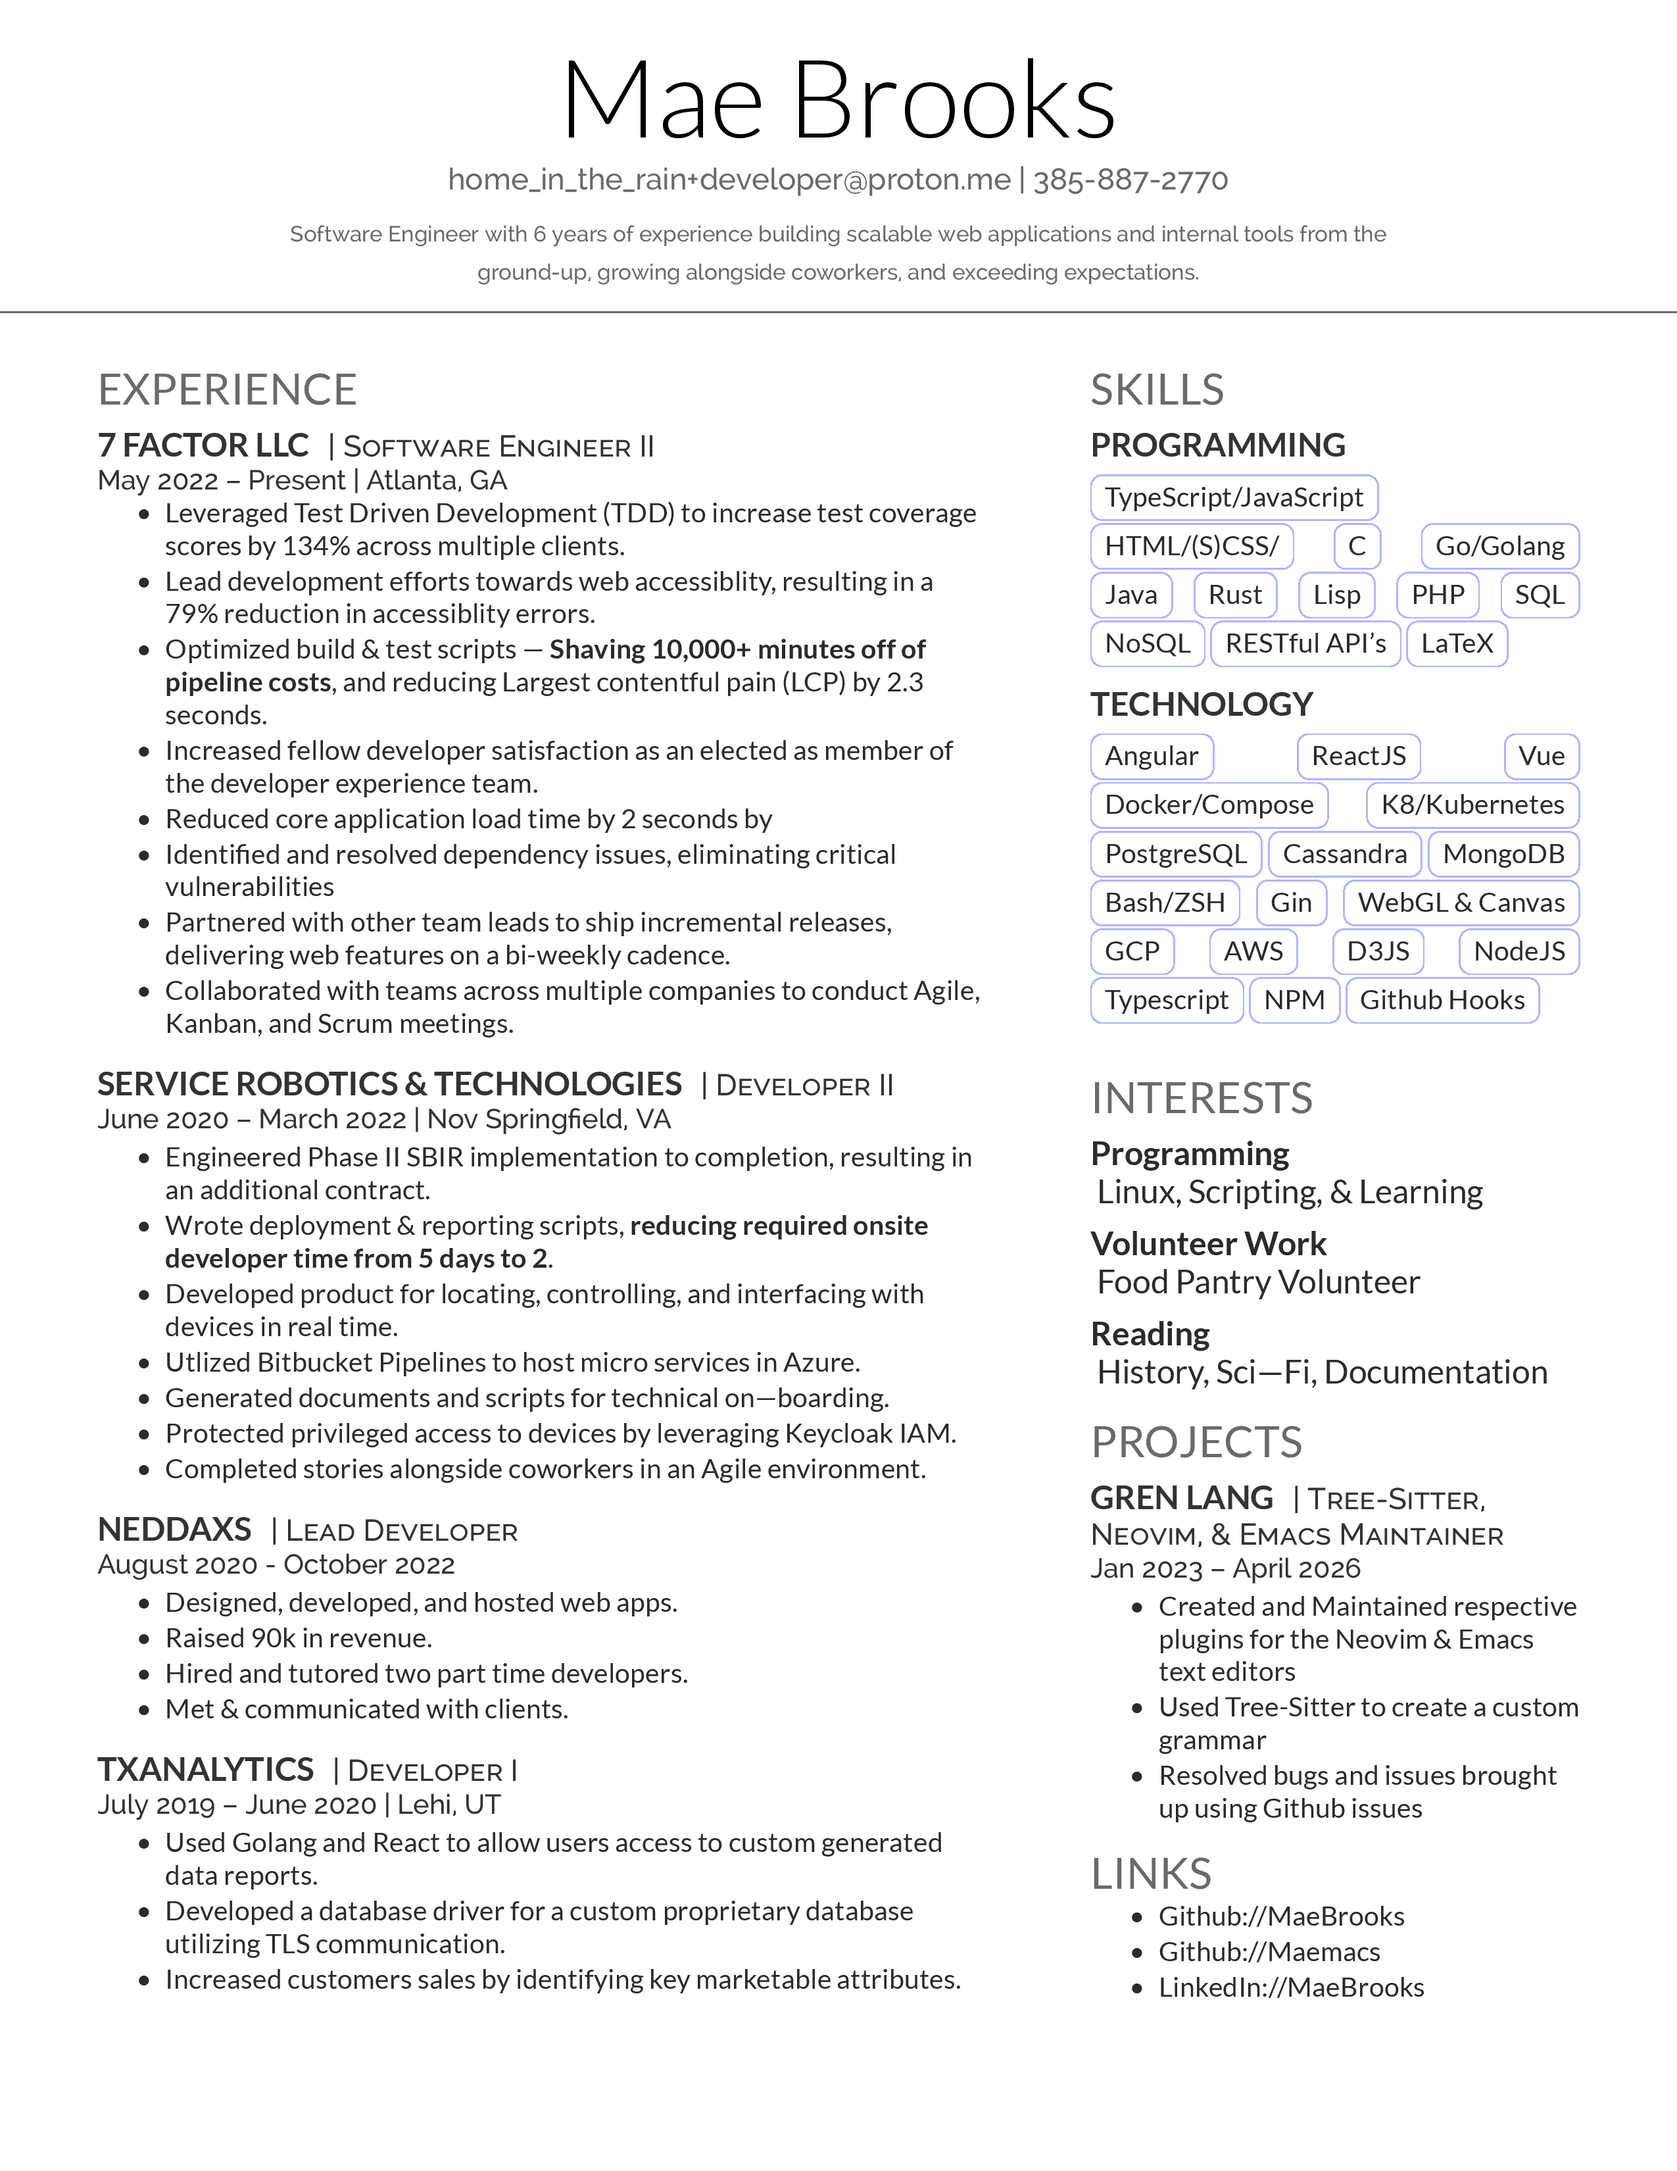
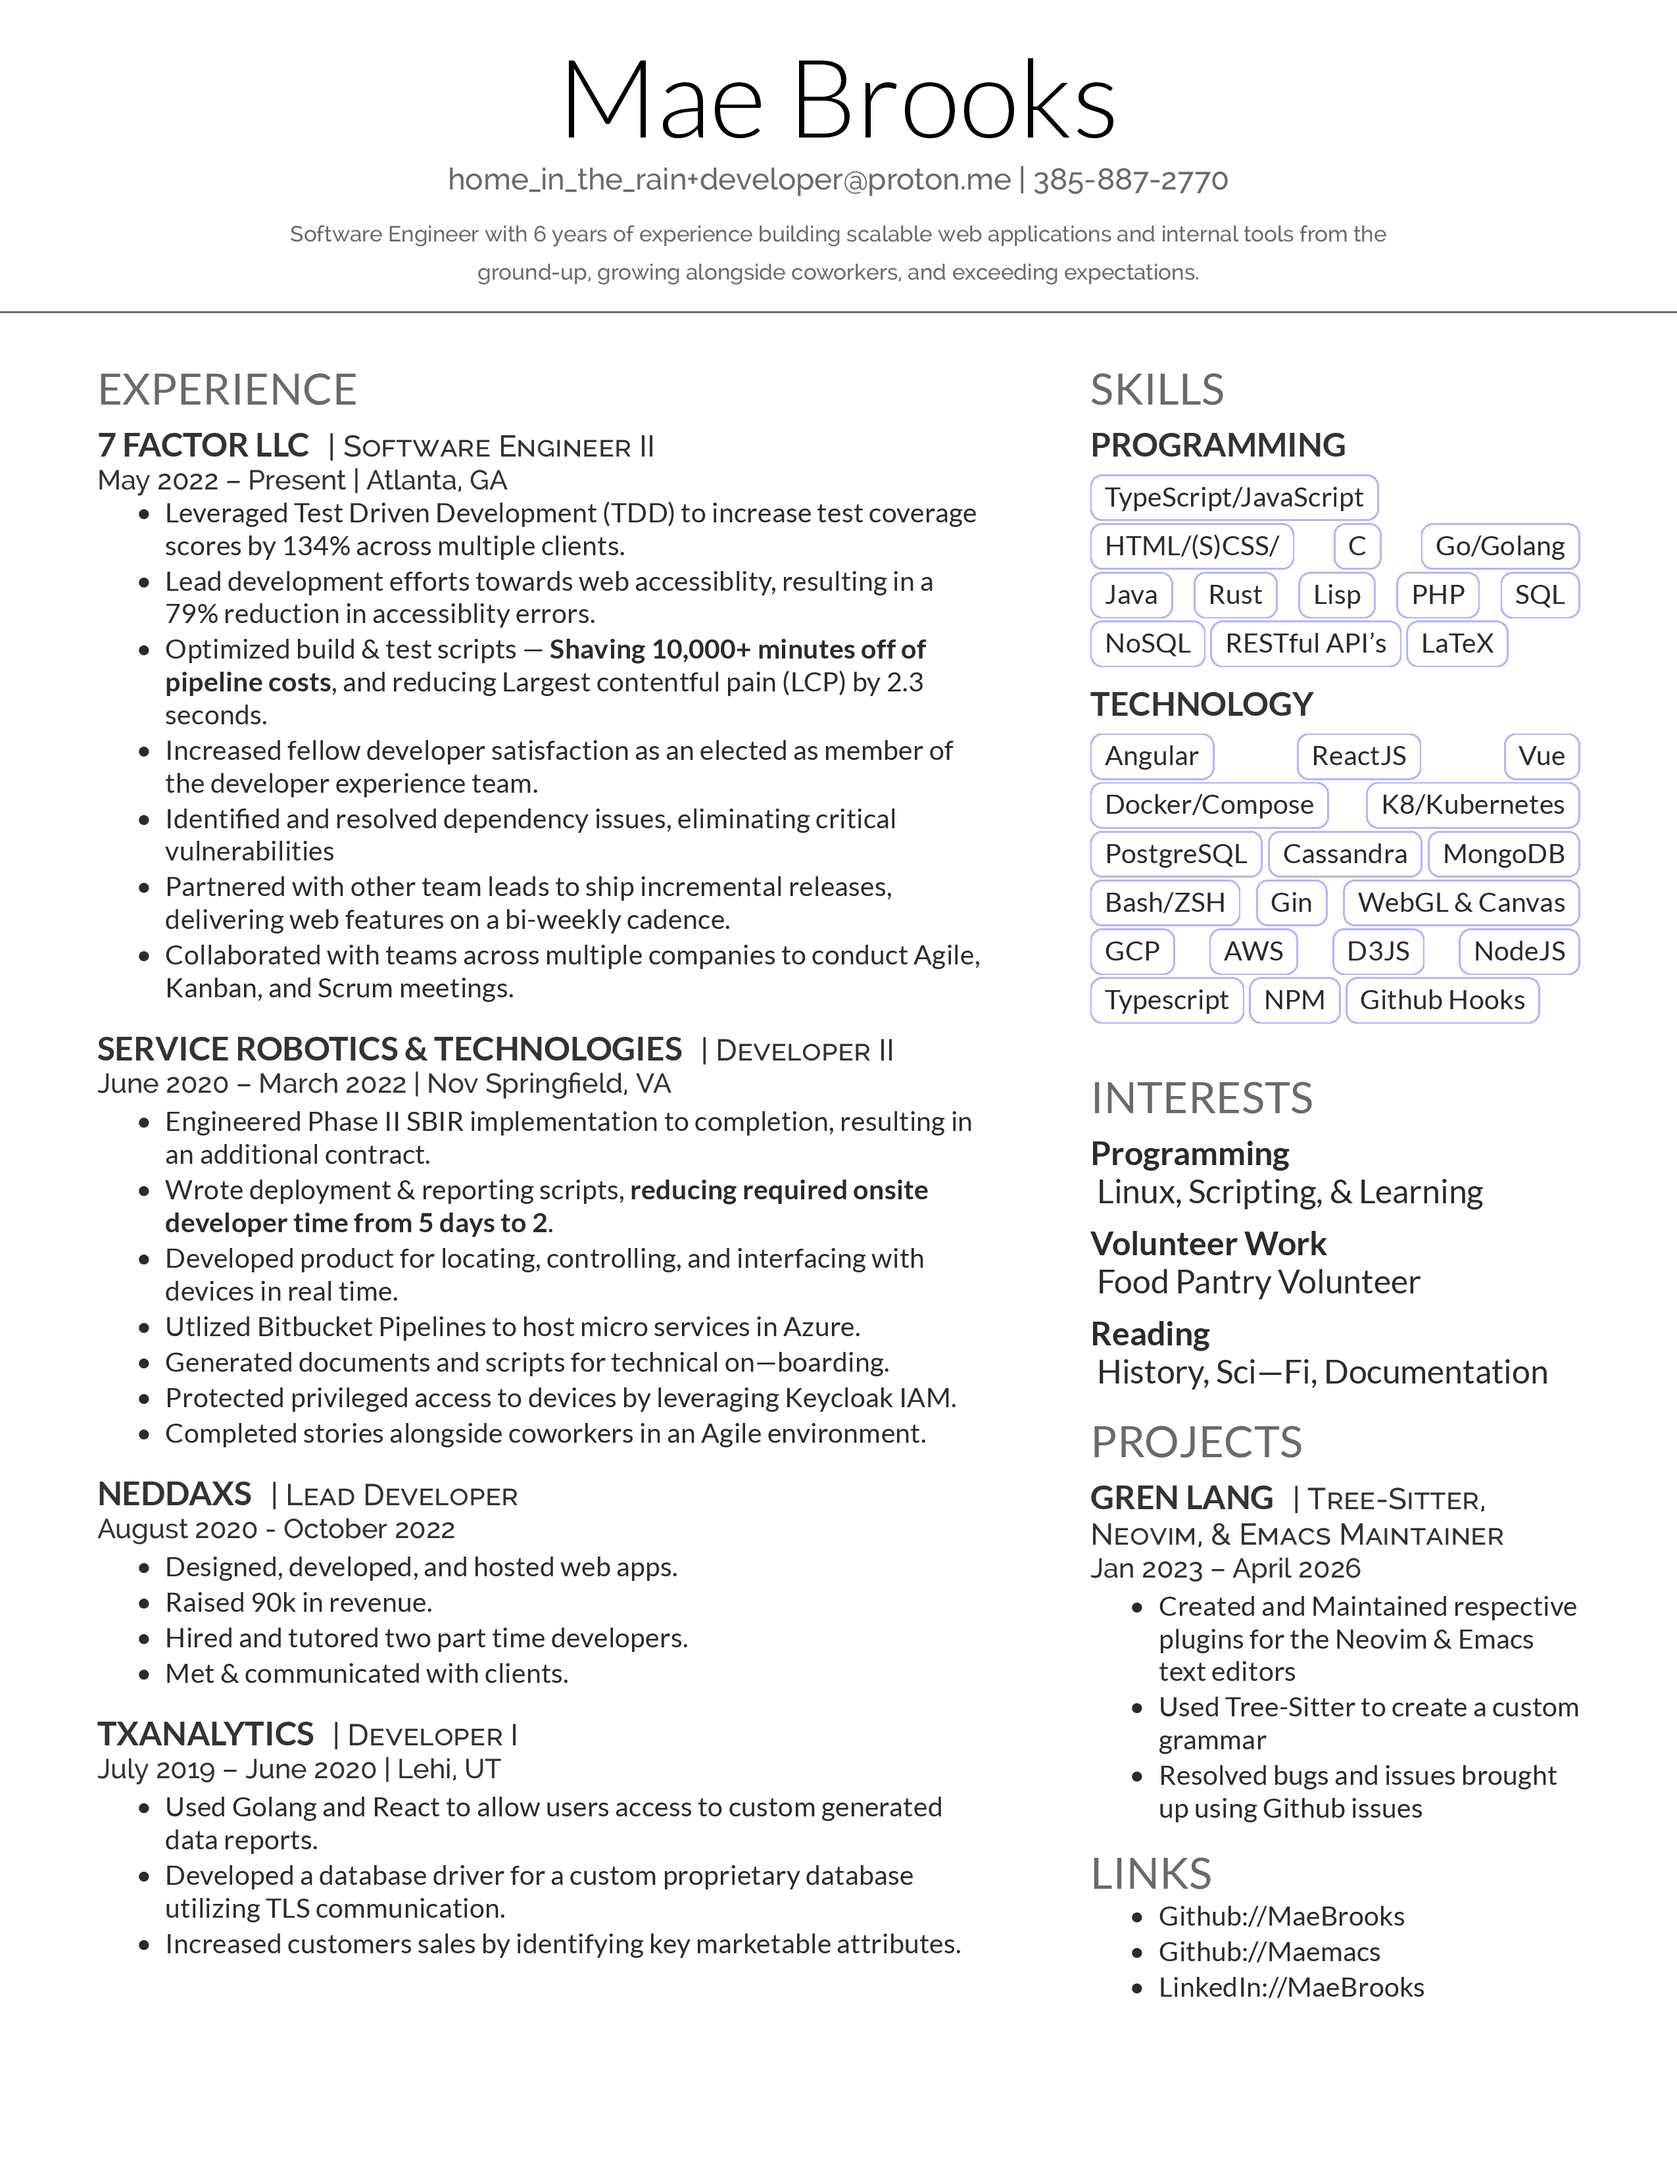
Removed unfinished line - will finish later

Changed region(s): [[0.062, 0.3745, 0.5886, 0.9364]]

diff --git a/resume.tex b/resume.tex
@@ -86,7 +86,6 @@
 \item{Lead development efforts towards web accessiblity, resulting in a 79\% reduction in accessiblity errors.}
 \item{Optimized build \& test scripts — \textbf{Shaving 10,000+ minutes off of pipeline costs}, and reducing Largest contentful pain (LCP) by 2.3 seconds.}
 \item{Increased fellow developer satisfaction as an elected as member of the developer experience team.}
-\item{Reduced core application load time by 2 seconds by }
 \item{Identified and resolved dependency issues, eliminating critical vulnerabilities}
 \item{Partnered with other team leads to ship incremental releases, delivering web features on a bi-weekly cadence.}
 \item{Collaborated with teams across multiple companies to conduct Agile, Kanban, and Scrum meetings.}     
